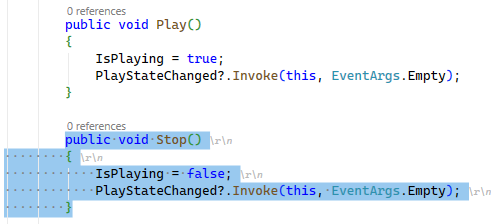
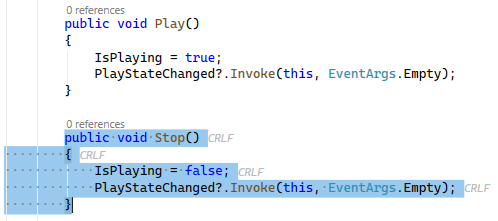
Update README for changed line ending symbols and glyph layout
* Changed symbols in table from backslash-escaped values to CRLF, etc.
* Updated the screenshots with versions that use the updated symbols

diff --git a/README.md b/README.md
@@ -20,13 +20,13 @@ Select any text to instantly reveal its whitespace characters:
 
 ![Selection Mode](art/selection-mode.png)
 
-| Character | Symbol | Description             |
-| --------- | ------ | ----------------------- |
-| Space     | `·`    | Middle dot              |
-| Tab       | `→`    | Rightwards arrow        |
-| CRLF      | `\r\n` | Windows line ending     |
-| LF        | `\n`   | Unix/macOS line ending  |
-| CR        | `\r`   | Classic Mac line ending |
+| Character | Symbol   | Description             |
+| --------- | -------- | ----------------------- |
+| Space     | `·`      | Middle dot              |
+| Tab       | `→`      | Rightwards arrow        |
+| CRLF      | *`CRLF`* | Windows line ending     |
+| LF        | *`LF`*   | Unix/macOS line ending  |
+| CR        | *`CR`*   | Classic Mac line ending |
 
 Line endings include tooltips explaining their type (e.g., "CRLF (Windows)").
 
